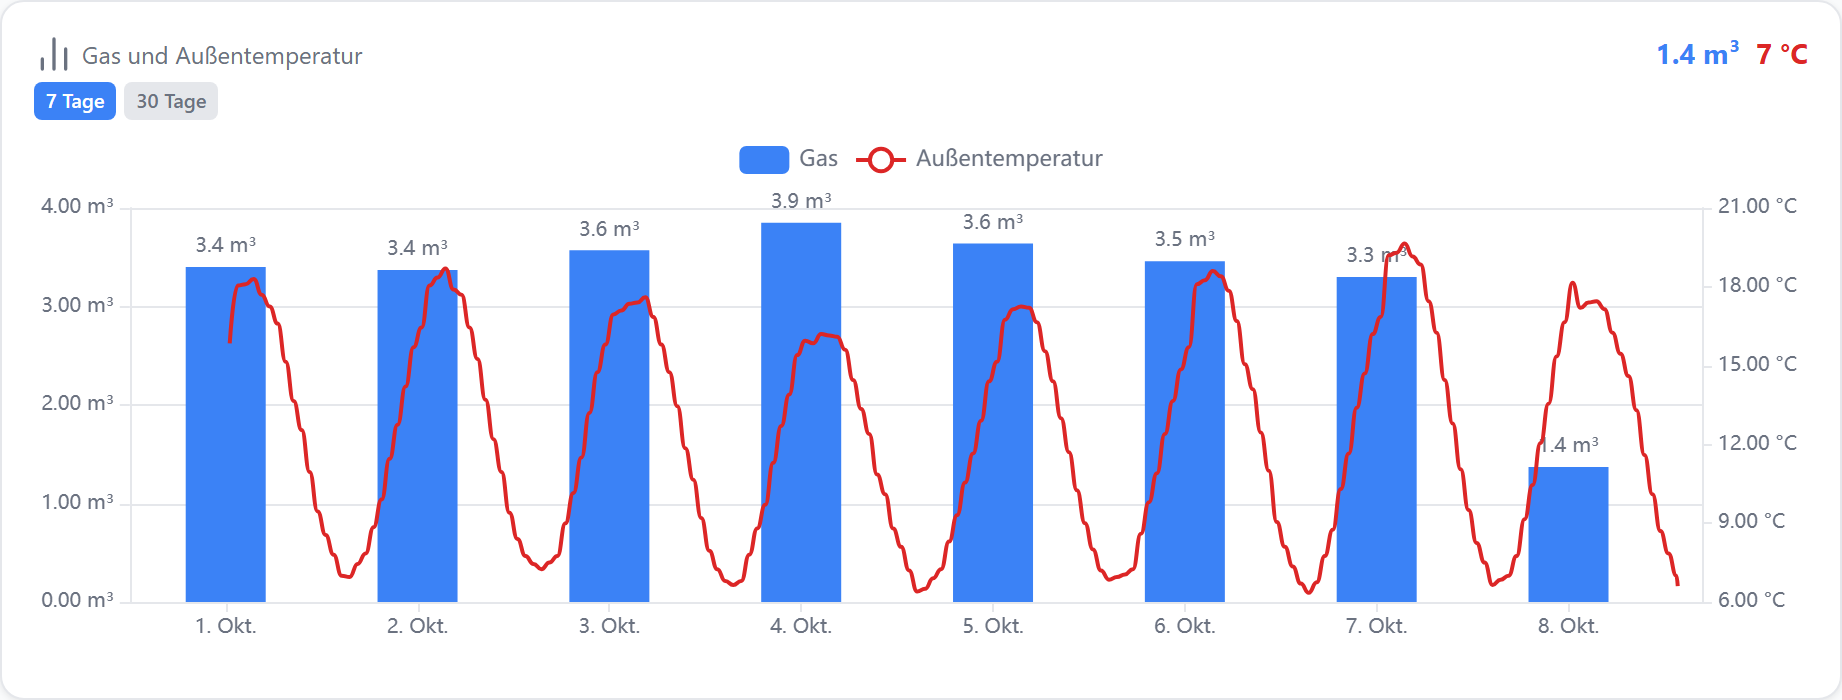
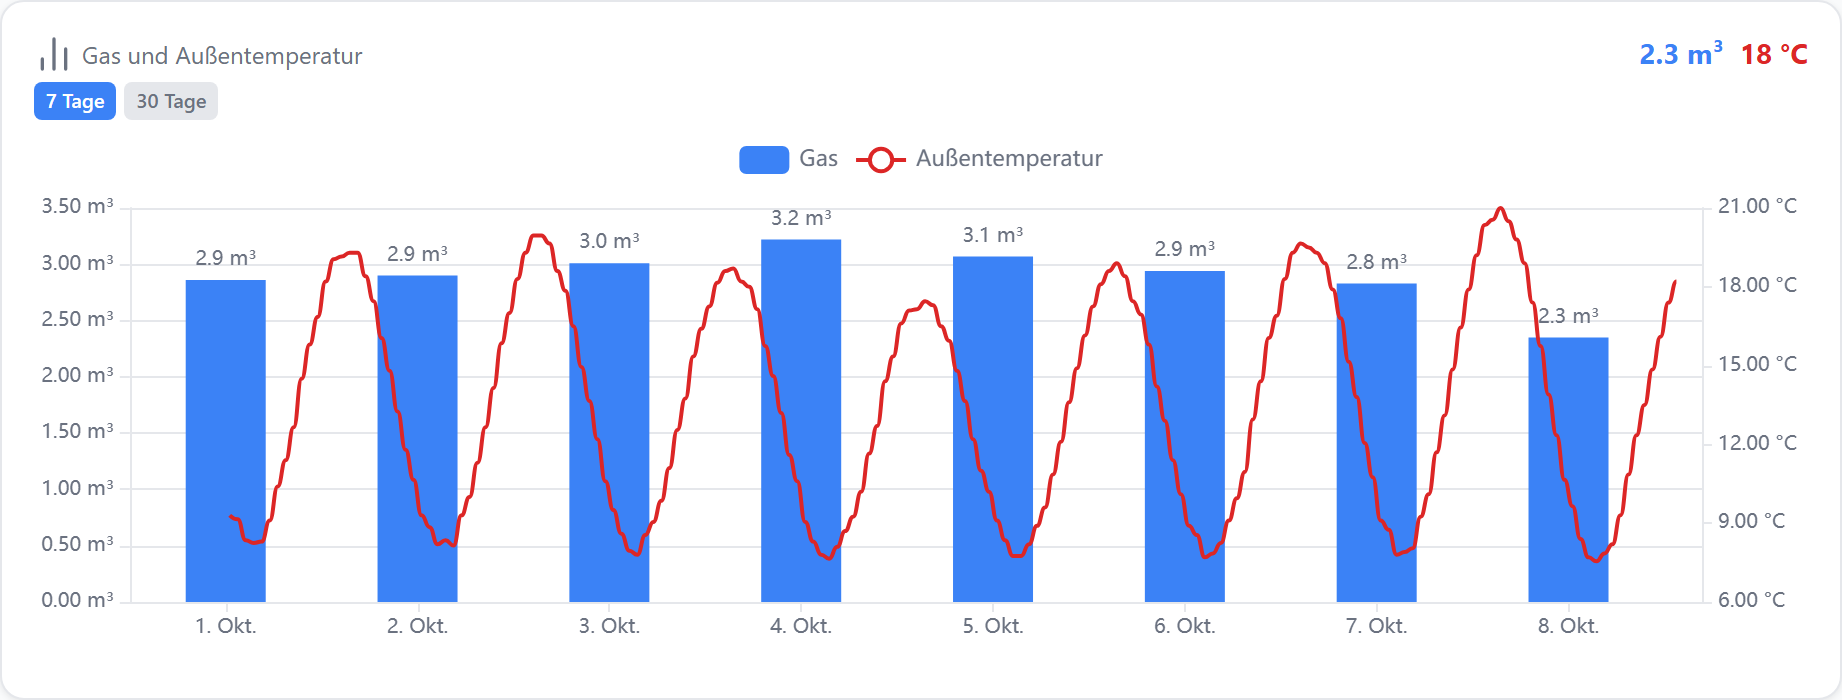
fix(echart): keep edge value labels inside the plot on every relayout (#703)
The #703 fix clamped value labels to the canvas and measured the shift from
labelRect. echarts calls labelLayout again on every relayout and passes the
rect AFTER the previous shift, so the second pass returned dx 0 and the
label snapped back: the first label sat on the y-axis numbers, the last one
was cut at the canvas edge. The shift is now measured from the point and
clamped to the plot rectangle. chart-edge-labels.mjs covers a visible y axis
and a second layout pass; both checks fail with the old logic.

Gallery: outdoor temperature peaked at night (sign error), each year now
runs warmer or colder so the year-on-year example compares something, the
solar forecast comes from the same PV model as the measured curve.

diff --git a/src-vis/components/widgets/EChartWidget.tsx b/src-vis/components/widgets/EChartWidget.tsx
@@ -60,6 +60,29 @@ const AXIS_GAP_V = 14;
 // Least distance of a value label from the left/right canvas edge.
 const LABEL_INSET = 2;
 
+/** The plot area of the first grid in px, or null before the first layout. Reaches into the
+ *  echarts model — there is no public API for the laid-out grid rectangle. */
+function plotRect(inst: unknown): { x: number; width: number } | null {
+    try {
+        const grid = (
+            inst as {
+                getModel?: () => {
+                    getComponent: (
+                        t: string,
+                        i: number,
+                    ) => { coordinateSystem?: { getRect?: () => unknown } } | undefined;
+                };
+            }
+        )
+            ?.getModel?.()
+            ?.getComponent('grid', 0);
+        const rect = grid?.coordinateSystem?.getRect?.() as { x: number; width: number } | undefined;
+        return rect && Number.isFinite(rect.x) && rect.width > 0 ? rect : null;
+    } catch {
+        return null;
+    }
+}
+
 const PRESET_RANGES: EChartTimeRange[] = ['1h', '6h', '24h', '7d', '30d', '1y', 'total'];
 
 function deepMerge(target: Record<string, unknown>, source: Record<string, unknown>): Record<string, unknown> {
@@ -513,15 +536,25 @@ export function EChartWidget({ config, editMode }: WidgetProps) {
     // Dense series would otherwise stamp a label on every single point; echarts drops the
     // ones that would collide and keeps the rest readable.
     // The label of a point on the plot edge is centred on it and half of it hangs over the canvas —
-    // the grid only reserves room for axis labels. It is pushed back inside instead (issue #703).
+    // the grid only reserves room for axis labels. It is pushed back inside instead (issue #703):
+    // inside the PLOT, not just the canvas — clamped to the canvas alone, the first label of a
+    // category chart lands on the y-axis numbers beside it.
+    // The shift is measured from the point (`rect`), not from `labelRect`: echarts calls this again
+    // on every relayout and hands in the rect AFTER the previous shift, so "already inside, dx 0"
+    // would snap the label back to the middle of its point.
     const valueLabelLayout =
         echartSeries.some((s) => seriesShowValues(s)) || echartShowStackPercent
-            ? (p: { labelRect: { x: number; width: number } }) => {
-                  const width: number = chartRef.current?.getEchartsInstance?.()?.getWidth?.() ?? chartWidth;
-                  const r = p.labelRect;
+            ? (p: { rect: { x: number; width: number }; labelRect: { x: number; width: number } }) => {
+                  const inst = chartRef.current?.getEchartsInstance?.();
+                  const width: number = inst?.getWidth?.() ?? chartWidth;
+                  const plot = plotRect(inst);
+                  const lo = plot ? Math.max(LABEL_INSET, plot.x) : LABEL_INSET;
+                  const hi = plot ? Math.min(width - LABEL_INSET, plot.x + plot.width) : width - LABEL_INSET;
+                  const w = p.labelRect.width;
+                  const left = p.rect.x + p.rect.width / 2 - w / 2; // where the centred label starts
                   let dx = 0;
-                  if (r.x < LABEL_INSET) dx = LABEL_INSET - r.x;
-                  else if (width > 0 && r.x + r.width > width - LABEL_INSET) dx = width - LABEL_INSET - r.x - r.width;
+                  if (left < lo) dx = lo - left;
+                  else if (width > 0 && left + w > hi) dx = hi - left - w;
                   return { hideOverlap: true, dx };
               }
             : undefined;

diff --git a/docs/widgets/beispiele-diagramm-erweitert.md b/docs/widgets/beispiele-diagramm-erweitert.md
@@ -1095,15 +1095,15 @@ Aus [#549](https://github.com/hdering/ioBroker.aura/issues/549). Steht der neues
 [
   {
     "label": "13:00",
-    "value": 6.6
+    "value": 18.2
   },
   {
     "label": "12:00",
-    "value": 7.2
+    "value": 17.5
   },
   {
     "label": "11:00",
-    "value": 8.2
+    "value": 16.6
   }
 ]
 ```
@@ -1168,16 +1168,16 @@ Aus [#595](https://github.com/hdering/ioBroker.aura/issues/595) · [#509](https:
 ```json
 [
   {
+    "ts": "1791457200000",
+    "val": 2279
+  },
+  {
     "ts": "1791460800000",
-    "val": 5018
+    "val": 1881
   },
   {
     "ts": "1791464400000",
-    "val": 4494
-  },
-  {
-    "ts": "1791468000000",
-    "val": 3684
+    "val": 1304
   }
 ]
 ```
@@ -1201,7 +1201,7 @@ Aus [#595](https://github.com/hdering/ioBroker.aura/issues/595) · [#509](https:
     "echartMode": "timeseries",
     "autoHistoryInstance": true,
     "echartShowLegend": true,
-    "echartShowCurrent": true,
+    "echartShowCurrent": false,
     "echartRange": "24h",
     "lockRange": true,
     "echartLeftUnit": "W",

diff --git a/RELEASE_NOTES.md b/RELEASE_NOTES.md
@@ -6,3 +6,4 @@
 #   Settings - <what changed>               e.g.  Settings - add hex color mode for RGB lights
 # Issue reference (optional): append (#519) — or paste the full issue URL — and the
 # release turns it into a changelog link. release.ps1 also asks per entry.
+- Advanced chart - value labels at the chart edges no longer overlap the y-axis numbers or snap back over the edge after a redraw (#703)
